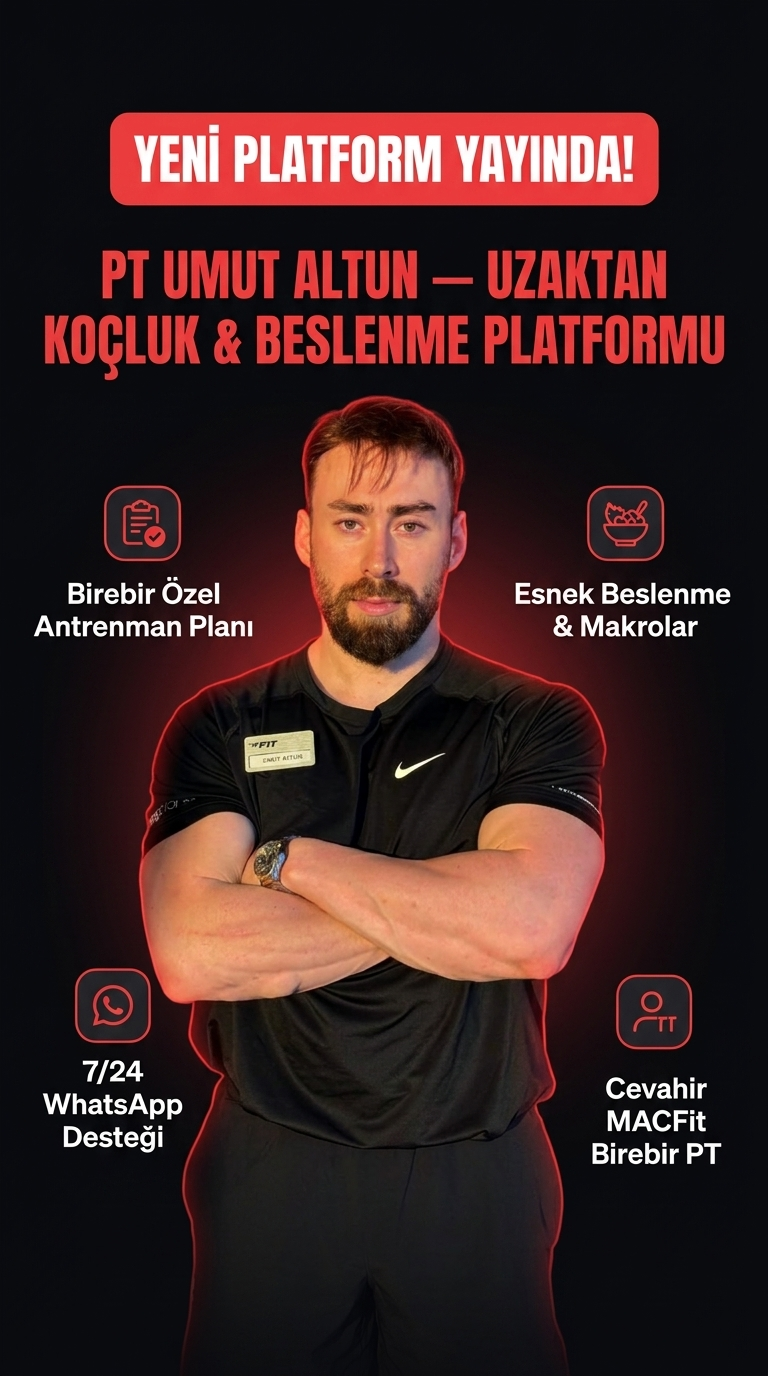
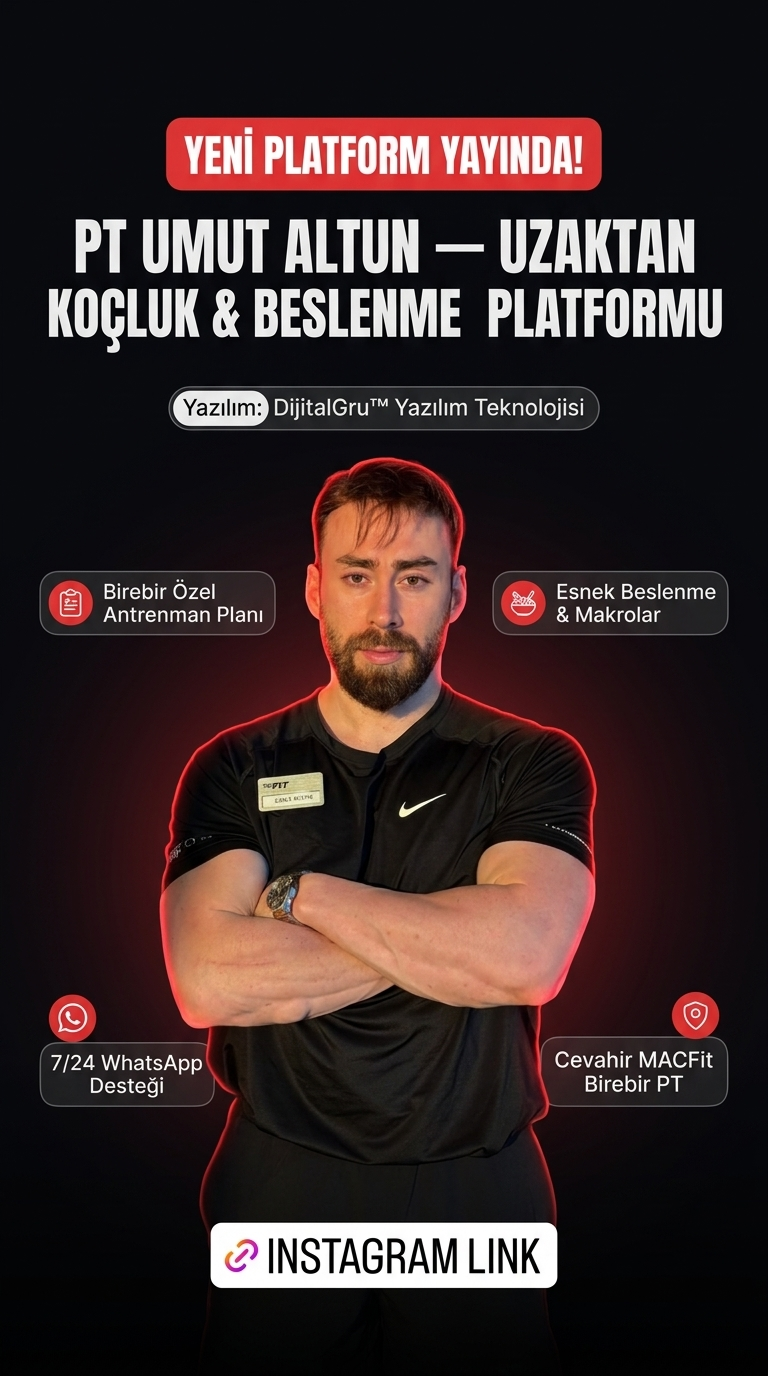
refactor: remove top header tag to achieve 100% pixel-perfect desktop and mobile header alignment, keeping DijitalGru™ Yazılım Teknolojisi badge in footer

diff --git a/story.html b/story.html
@@ -167,6 +167,11 @@
   <div class="story-title">
     <h1>PT UMUT ALTUN</h1>
     <h1 class="red-text">UZAKTAN KOÇLUK & BESLENME</h1>
+    
+    <div style="margin-top: 20px; display: inline-flex; align-items: center; gap: 12px; padding: 10px 26px; background: rgba(255,255,255,0.05); border: 1px solid rgba(255,255,255,0.2); border-radius: 100px;">
+      <span style="font-weight: 900; font-size: 20px; color: #F7EBD3;">dijital<span style="color:#F7EBD3;">g</span>ru</span>
+      <span style="font-size: 16px; color: rgba(255,255,255,0.75); border-left: 1px solid rgba(255,255,255,0.2); padding-left: 12px;">DijitalGru™ Yazılım Teknolojisi</span>
+    </div>
   </div>
 
   <!-- Trainer Photo Card with Badges -->

diff --git a/admin.html b/admin.html
@@ -183,7 +183,6 @@
       <a href="index.html" class="brand-logo">
         <div class="logo-icon">UA</div>
         <span>PT UMUT ALTUN | EĞİTMEN PANELİ</span>
-        <span class="nav-dijitalgru-tag">| Altyapı: <a href="https://dijitalgru.com" target="_blank" rel="noopener noreferrer">DijitalGru™ Yazılım Teknolojisi</a></span>
       </a>
 
       <nav class="nav-links">

diff --git a/dashboard.html b/dashboard.html
@@ -381,7 +381,6 @@
       <a href="index.html" class="brand-logo">
         <div class="logo-icon">UA</div>
         <span>PT UMUT ALTUN</span>
-        <span class="nav-dijitalgru-tag">| Altyapı: <a href="https://dijitalgru.com" target="_blank" rel="noopener noreferrer">DijitalGru™ Yazılım Teknolojisi</a></span>
       </a>
 
       <nav class="nav-links">

diff --git a/index.html b/index.html
@@ -35,7 +35,6 @@
       <a href="#" class="brand-logo">
         <div class="logo-icon">UA</div>
         <span>PT UMUT ALTUN</span>
-        <span class="nav-dijitalgru-tag">| Altyapı: <a href="https://dijitalgru.com" target="_blank" rel="noopener noreferrer">DijitalGru™ Yazılım Teknolojisi</a></span>
       </a>
 
       <nav class="nav-links">
